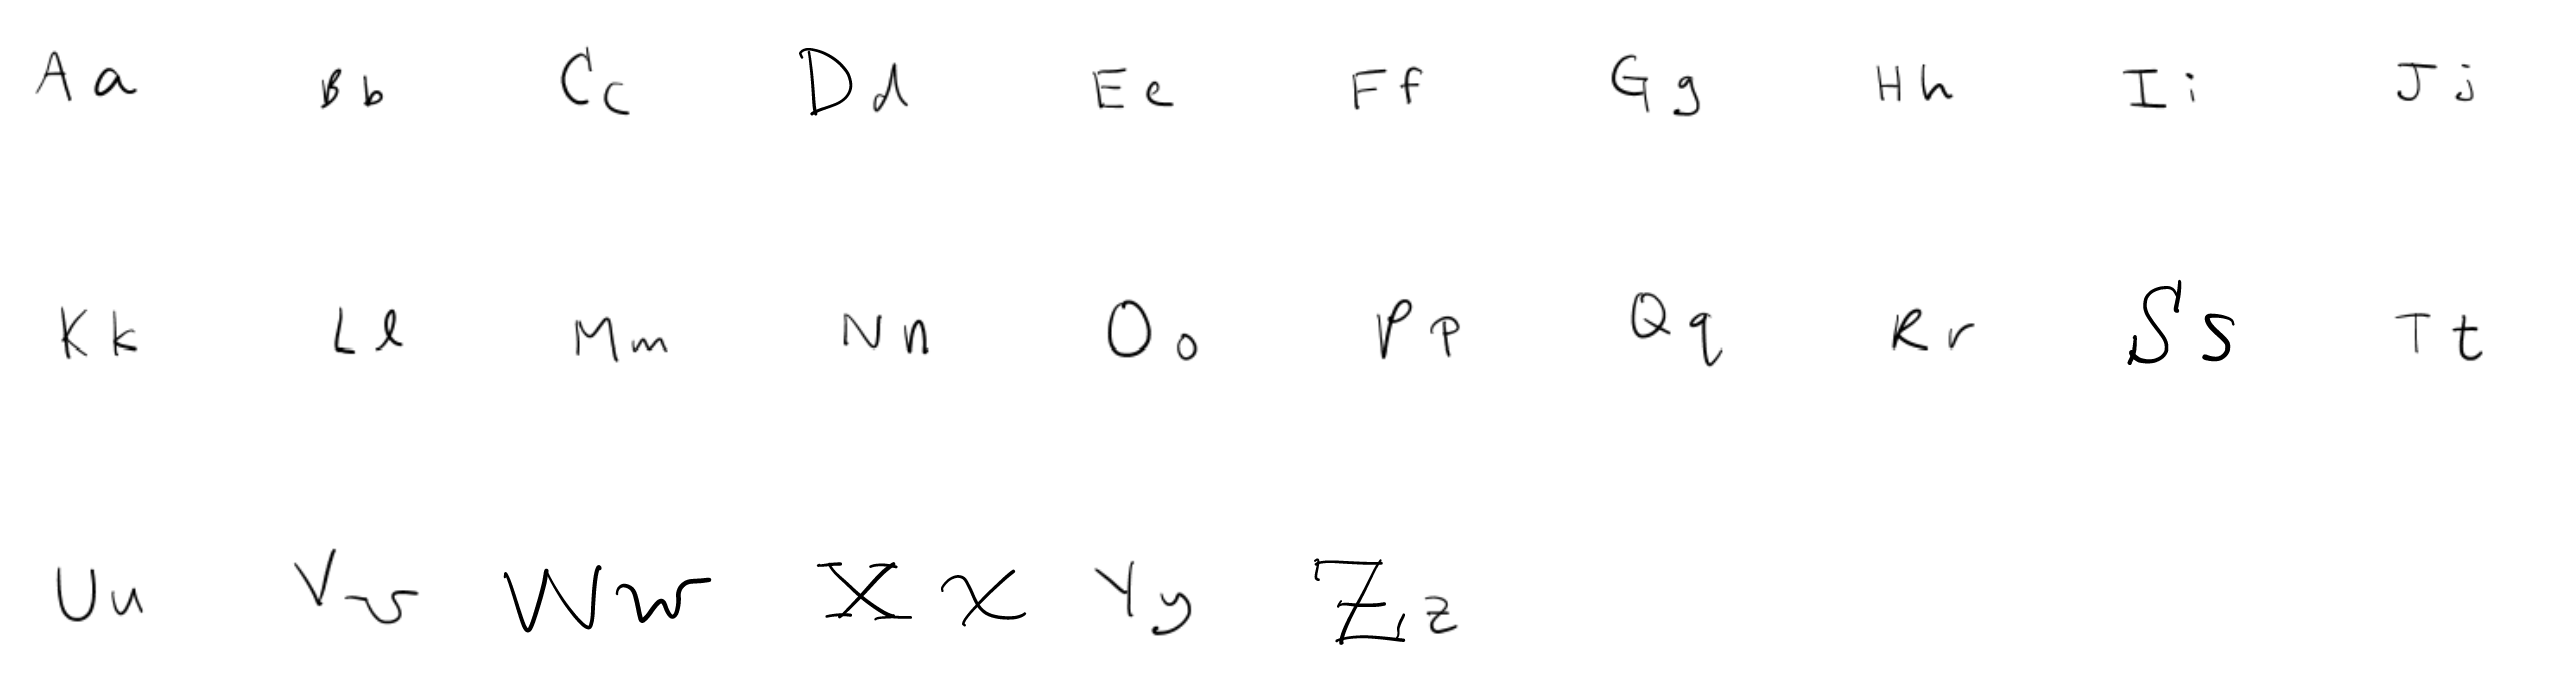
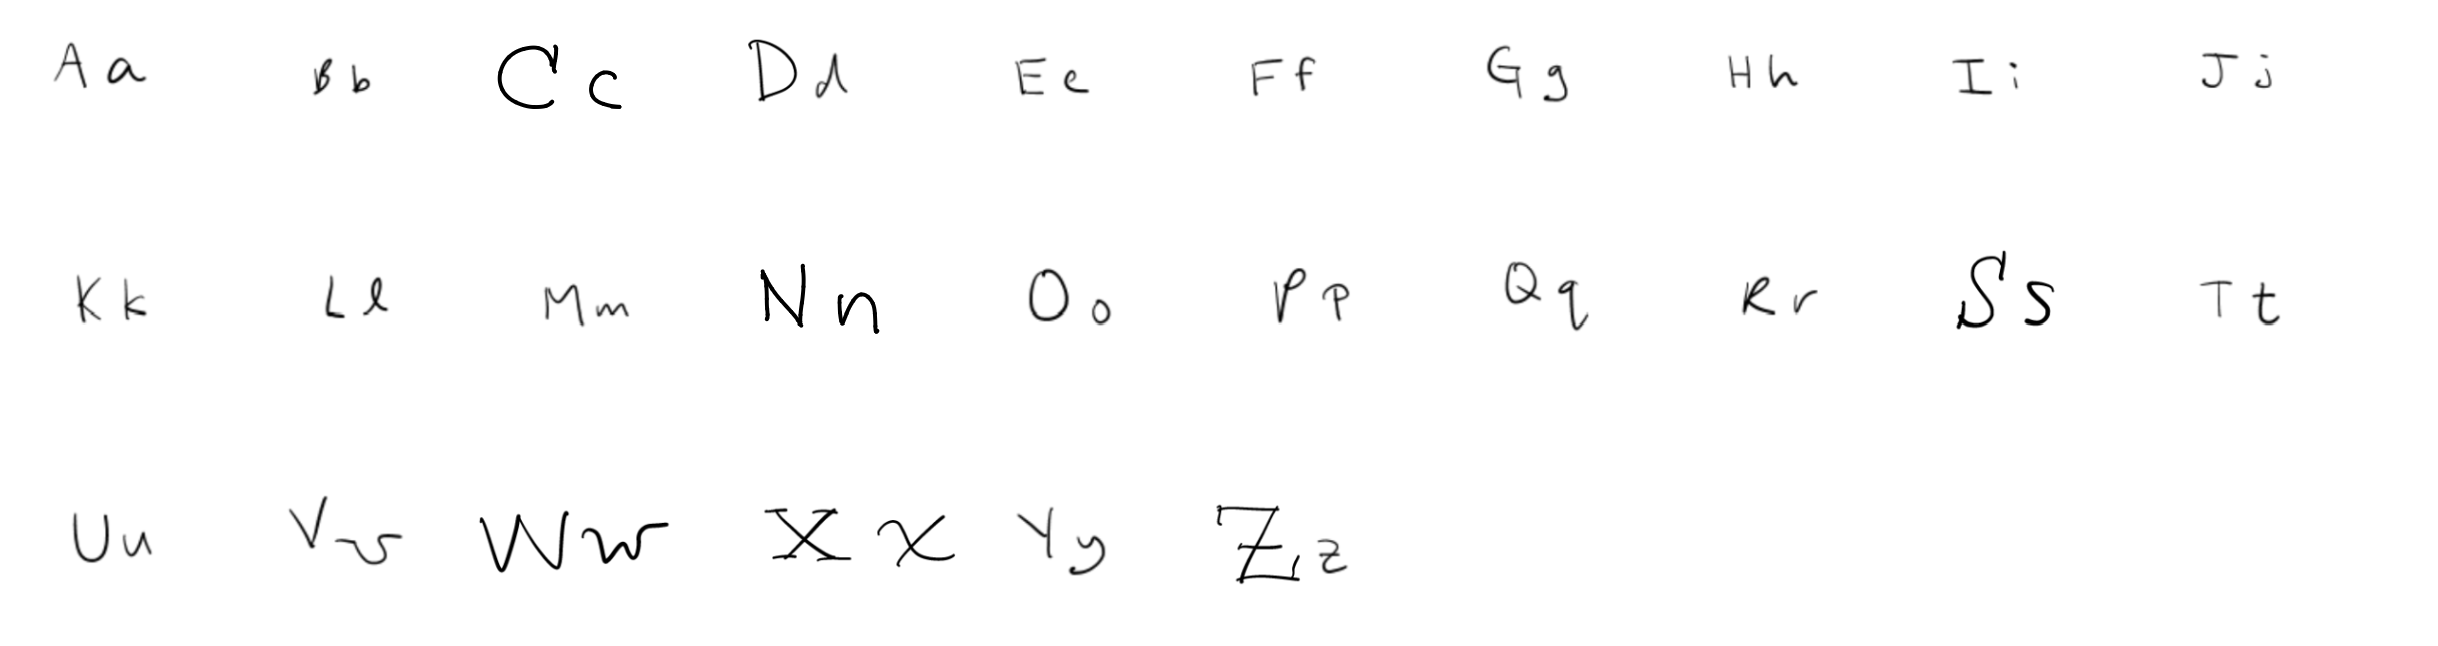
I just had to make some revisions

diff --git a/_posts/2026-06-07-math-handwriting.md b/_posts/2026-06-07-math-handwriting.md
@@ -1,6 +1,6 @@
 ---
 layout: post
-title: My Attempt at a Mathematical Handwriting Reference
+title: My Attempt at a Math Handwriting Reference
 date: 2026-06-07
 category: post
 ---
@@ -8,8 +8,6 @@ category: post
 <div class="post-subheader">
 I've spent way too much time thinking about this
 </div>
-
-Note: This was mostly for fun. I know a lot of people can understand their own handwriting very well and have no issues with others interpreting it, and if that works for you then there is no reason to try anything new. This reference isn't very aesthetic at all and I honestly kind of dislike it for that reason (the Greek is okay, but the English is honestly ugly). Furthermore, if you know that you aren't going to be using letters that are easy to mix up, you can just write the ones you might have gotten mixed up otherwise out normally in that specific document. At the end of the day, serious work is typed up for a reason.
 
 Do you ever find yourself getting confused with handwritten notes from professors or peers? Have you ever made a mistake in the interpretation of your own notes because of the way you wrote out a letter or symbol? If your answer to either of these is yes, then you're spending time deciphering notation in lectures, homework, exams, projects, and labs that could have been used for understanding the actual content.
 
@@ -102,27 +100,30 @@ I've left out some uppercase Greek letters which are the same as the English let
     </div>
 </div>
 
-I have genuinely spent several years stressing out over this. The most confusing part remains distinguishing between $O$, $o$, and $0$. In case you didn't catch it, we have to unfortunately rely on size to distinguish between $O$ and $o$, while $0$ is very elongated. Additionally, it is actually challenging to distinguish between $s$ and $5$ sometimes, but that's probably a handwriting thing on my end.
+I have genuinely spent several years stressing out over this. The most confusing thing remains distinguishing between $O$, $o$, and $0$. In case you didn't catch it, we have to unfortunately rely on size to distinguish between $O$ and $o$, while $0$ is very elongated. Additionally, it is often challenging to distinguish between $s$ and $5$, and you have to make sure the first stroke of the $5$ isn't curved at all.
 
 ## Some Notes on Notation and Syntax
 
-Now that we know how to write out what is supposed to be italicized math text, we face the issue of Roman text. When we type up things like the $\sin$ function or Al for aluminum, they aren't in italicized math text. We of course cannot reliably handwrite italicized letters to distinguish from Roman text, so our best course of action is to write out everything using the italicized math text above.
+Now that we know how to write out what is supposed to be italicized, we face the issue of Roman (upright) text. When we typeset functions, descriptive subscripts, units, and elements (e.g., $\sin$ for the sine function or Al for aluminum), they are upright. We of course cannot reliably distinguish italicized letters from upright letters in handwriting, so deciding whether to keep these cases upright is your choice. I personally prefer to write them upright because there's usually enough context to tell.
 
-There is still unfortunately room for confusion here, because when we are tired and more prone to mistakes, we might look at operators (which are in Roman text) next to italicized math text and think we are multiplying everything together. Richard Feynman encountered this issue as a child. He writes in Surely You're Joking, Mr. Feynman!:
+There is still unfortunately room for confusion here, especially when we are tired and more prone to mistakes. Richard Feynman encountered this issue as a child. He writes the following in *Surely You're Joking, Mr. Feynman!*:
 
-"While I was doing all this trigonometry, I didn’t like the symbols for sine, cosine, tangent, and so on. To me, 'sin f' looked like s times i times n times f! So I invented another symbol, like a square root sign, that was a sigma with a long arm sticking out of it, and I put the f underneath. For the tangent it was a tau with the top of the tau extended, and for the cosine I made a kind of gamma, but it looked a little bit like the square root sign."
+"While I was doing all this trigonometry, I didn’t like the symbols for sine, cosine, tangent, and so on. To me, \(\sin f\) looked like \(s \times i \times n \times f\)! So I invented another symbol, like a square root sign, that was a \(\sigma\) with a long arm sticking out of it, and I put the \(f\) underneath. For the tangent it was a \(\tau\) with the top of the \(\tau\) extended, and for the cosine I made a kind of \(\gamma\), but it looked a little bit like the square root sign."
 
-We are fortunate enough that context can usually resolve any ambiguities. But I still can't help but find myself wishing we had another alphabet to make these ambiguities less common in general. Here are some general tips:
+We are fortunate enough that context can usually resolve any ambiguities. But I still can't help but find myself wishing we had another alphabet to make these ambiguities less common in general.
 
-- If you are using all of the following, use $*$ or simply place things next to each other for multiplication, $\cdot$ for dot product, and $\times$ for cross product if possible.
-- Try to not add on unnecessary loops or curls. For instance, if you add on a loop to the bottom of an $s$, it might look like $\delta$.
-- Try to always finish your strokes. Don't leave space between strokes. For instance, an incomplete $e$ might look like a $c$.
-- Don't be afraid to use brackets rather than having too many parenthesis.
+Here are some general tips:
+
+- If you are using all of the following, use $*$ or parentheses or simply place things next to each other for multiplication, $\cdot$ for dot product, and $\times$ for cross product if possible. Write operators that go between letters smaller and centered vertically.
+- Try not to add unnecessary loops or curls. For instance, if you add on a loop to the bottom of an $s$, it might look like $\delta$.
+- Keep straight parts of letters straight and curved parts curved.
+- Finish your strokes completely. Don't leave space between strokes. For instance, an incomplete $e$ might look like a $c$.
+- Use brackets if there are too many parentheses.
 - Keep your English text left-aligned.
-- Start a new line if you are transitioning to a new idea rather than continuing across the page in columns (maybe three columns is okay, but any more might be too cluttered).
+- Start a new line if you are transitioning to a new idea rather than continuing across the page in columns.
 - Make equations or expressions part of a coherent sentence rather than just dumping them on the page. You can introduce them using a clause with a colon and then put the equation or expression below. If you don't think it deserves a full line, embed it into a sentence like you would with a quote.
-- Use the standard notation (or what your professor prefers) or self-descriptive variables whenever you can.
+- Use the standard notation, your professor’s preferred notation, or self-descriptive variables whenever possible. Stay consistent within that document.
 - If anything gets too complicated, just define it nearby.
-- And once more, the number one thing is you being able to understand your work, so do what is the best for you (but give your future self or colleagues or whoever some leeway too)
+- The number one thing is that you are able to understand your own work, so do whatever works best for you. Just give your future self, colleagues, or anyone else reading it a little leeway too.
 
 I hope this helps, and I'm open to any suggestions.

diff --git a/_posts/2024-12-01-the-absence-of-purpose-led-us-here.md b/_posts/2024-12-01-the-absence-of-purpose-led-us-here.md
@@ -6,15 +6,15 @@ category: creative
 ---
 
 <div class="post-subheader">
-I'm still trying to get this one right: last edited June 2026
+Finding our way
 </div>
 
-A few years ago, I had an epiphany about writing. I was spending a lot of time improving my ability to write because I believed that being a good reader meant nothing without the pen. There was a point when I got a lot better at academic and analytical writing. Even after that, I spent so much reading and writing that I started to wonder what I was really gaining from it. Did it fit in with the more prominent realms of my identity? And what is engineering all about? It all boils down to solving real-world problems through mathematics and the sciences. And while there will always be systems that need to be fixed or improved, there's more to engineering than just that.
+A few years ago, I had an epiphany about writing. I was spending a lot of time improving my ability to write because I believed that being a good reader meant nothing without the pen. There was a point when I got a lot better at academic and analytical writing. Even after that, I spent so much reading and writing that I started to wonder what I was really gaining from it. Did it fit in with the more prominent realms of my identity? Well, what is engineering all about? It all boils down to solving real-world problems through mathematics and the sciences. And while there will always be systems that need to be fixed or improved, there's more to engineering than just that.
                 
 I don’t believe that there is a reason for *everything*. Thus, we have no purpose other than the kind that comes from within each individual. At the widest view, all of our interests lie somewhere between increasing the length of our civilization and revealing the nature of the universe at every scale. We don't need to build observatories that catch glimpses billions of years into the past because we have to. We do it because we are capable of it. That's the upper bound on the idea of engineering for abundance: doing things because they are difficult, doing things not because they are necessary but because we can. Exploring, discovering, and building because *we can*. Thus, engineering, for me, is really a way for humanity to reach out further into the universe. That's not so different from astrophysics, the study of the universe, or the work of great writers, who find meaning in the universe.
                 
 And history supports this idea. When we learn about the origins of life biologically and the structure of matter down to the quantum scale, what we really are doing is revealing the nature of the universe. This can be distilled into a few subjects like cosmology and particle physics and astrophysics. And in these fields, we frequently see scientists refer to explanations of phenomena in romantic ways and spend their lives chasing collective elegance. In astrophysics, we may see a system of supermassive black holes as being locked in a “cosmic waltz” or molecular clouds as “stellar nurseries.” And a few million years after the largest stars in the universe are “born”? We refer to the white dwarfs and neutron stars that follow as “graveyards.” 
                 
-If astrophysics represents the final frontier, and the final frontier is frequently discussed using metaphor and even personified, then perhaps that means a better understanding of what makes the universe beautiful is the closest thing we can get to a true self-purpose. And that's true about writing just as much as it is astronomy, chemistry, biology, or engineering. And there is at least a little bit of ego in any sort of expression, and especially so in writing. Indeed, I'm trying to get others to remember and value my interpretation of beauty in the world. It doesn’t necessarily need to be selfish; there's room for compassion in wanting others to see your take on the world. But it’s still a deeply personal act, a way to leave a piece of yourself behind.
+If astrophysics represents the final frontier, and the final frontier is frequently discussed using metaphor and even personified, then perhaps that means a better understanding of what makes the universe beautiful is the closest thing we can get to a true self-purpose. And that's true about writing just as much as it is astronomy, chemistry, biology, or engineering. And there is at least a little bit of ego in any sort of expression, and especially so in writing. Indeed, I'm trying to get others to remember and value my interpretation of beauty in the world. But it doesn’t need to be entirely selfish; there's room for compassion in wanting others to see your take on the world. But it’s still a deeply personal act—a way to leave a piece of yourself behind.
                 
-Like writers, astronomers have, in fact, been so obsessed with beauty to the point where poetic misnomers are used to identify some of the most common celestial bodies. This, along with the grandiose descriptions, is still effective. And that makes sense, doesn't it? The first astronomers in the Babylonians, Indians, Egyptians, and Greeks, looked up at the sky for different purposes like navigation, time-keeping, and religion. The one thing all of those have in common is that they are about humankind finding their way. Later down the road, members of the church and philosophers who identified as polymaths became many of the most iconic physicists we know today. This intersection of the humanities and the sciences is no coincidence, nor is it coincidence that astronomy, often referred to as the oldest science, is also the most romantic. Language extracts an ethereal quality from the exploration of the cosmos that helps us find our way in a meaningless albeit beautiful universe. Combined, writing, science, and technology are the tools of our voyage. And the universe didn't choose this path for us. We charted it on our own, guided by its stars.
+Like writers, astronomers have, in fact, been so obsessed with beauty to the point where poetic misnomers are used to identify some of the most common celestial bodies. This, along with the grandiose descriptions, is still effective. And that makes sense, doesn't it? The first astronomers in the Babylonians, Indians, Egyptians, and Greeks, looked up at the sky for different purposes like navigation, time-keeping, and religion. The one thing all of those have in common is that they are about humankind finding their way. Later down the road, members of the church and philosophers who identified as polymaths became some of the most important physicists we know today. This intersection of the humanities and the sciences is no coincidence, nor is it coincidence that astronomy—often referred to as the oldest science—is also the most romantic. Language extracts an ethereal quality from the exploration of the cosmos that helps us find our way in a meaningless albeit beautiful universe. Combined, writing, science, and technology are the tools of our voyage. And the universe didn't choose this path for us. We charted it on our own, guided by its stars.

diff --git a/_posts/2025-10-5-fall-2025-poems.md b/_posts/2025-10-5-fall-2025-poems.md
@@ -1,12 +1,12 @@
 ---
 layout: post
-title: Fall 2025 Poetry Challenge
+title: Poems from Fall 2025
 date: 2025-10-05
 category: creative
 ---
 
 <div class="post-subheader">
-I thought it would be interesting to try to write a poem every day for three weeks, to see if I could improve as a writer and also to have something relaxing to do. I wrote most of these very late at night, in 10 minutes or less. I missed some days and therefore had to write two the next day.
+I thought it would be interesting to try to write a short poem every day for three weeks to see if I could improve as a writer and also to have something relaxing to do. I wrote most of these very late at night. I missed some days and therefore had to write two the next day.
 </div>
 
   <section class="poem">
